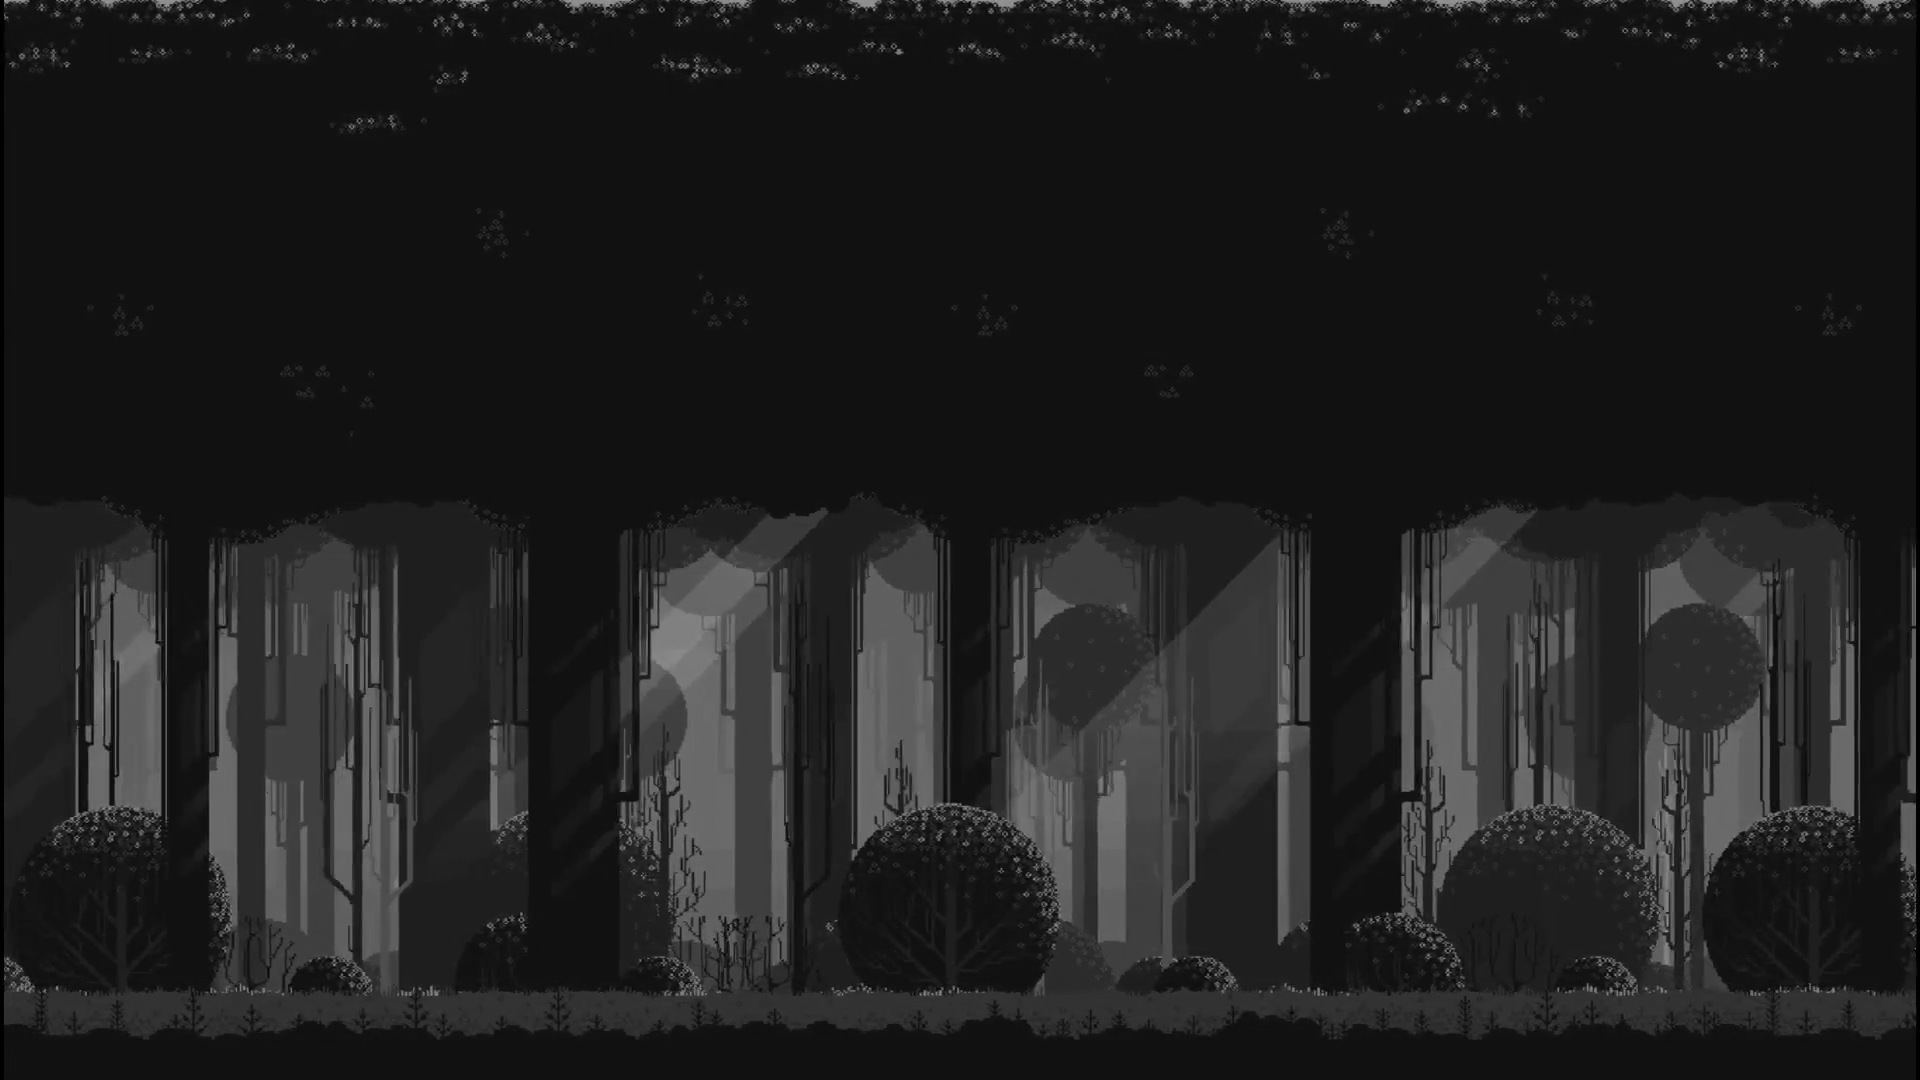
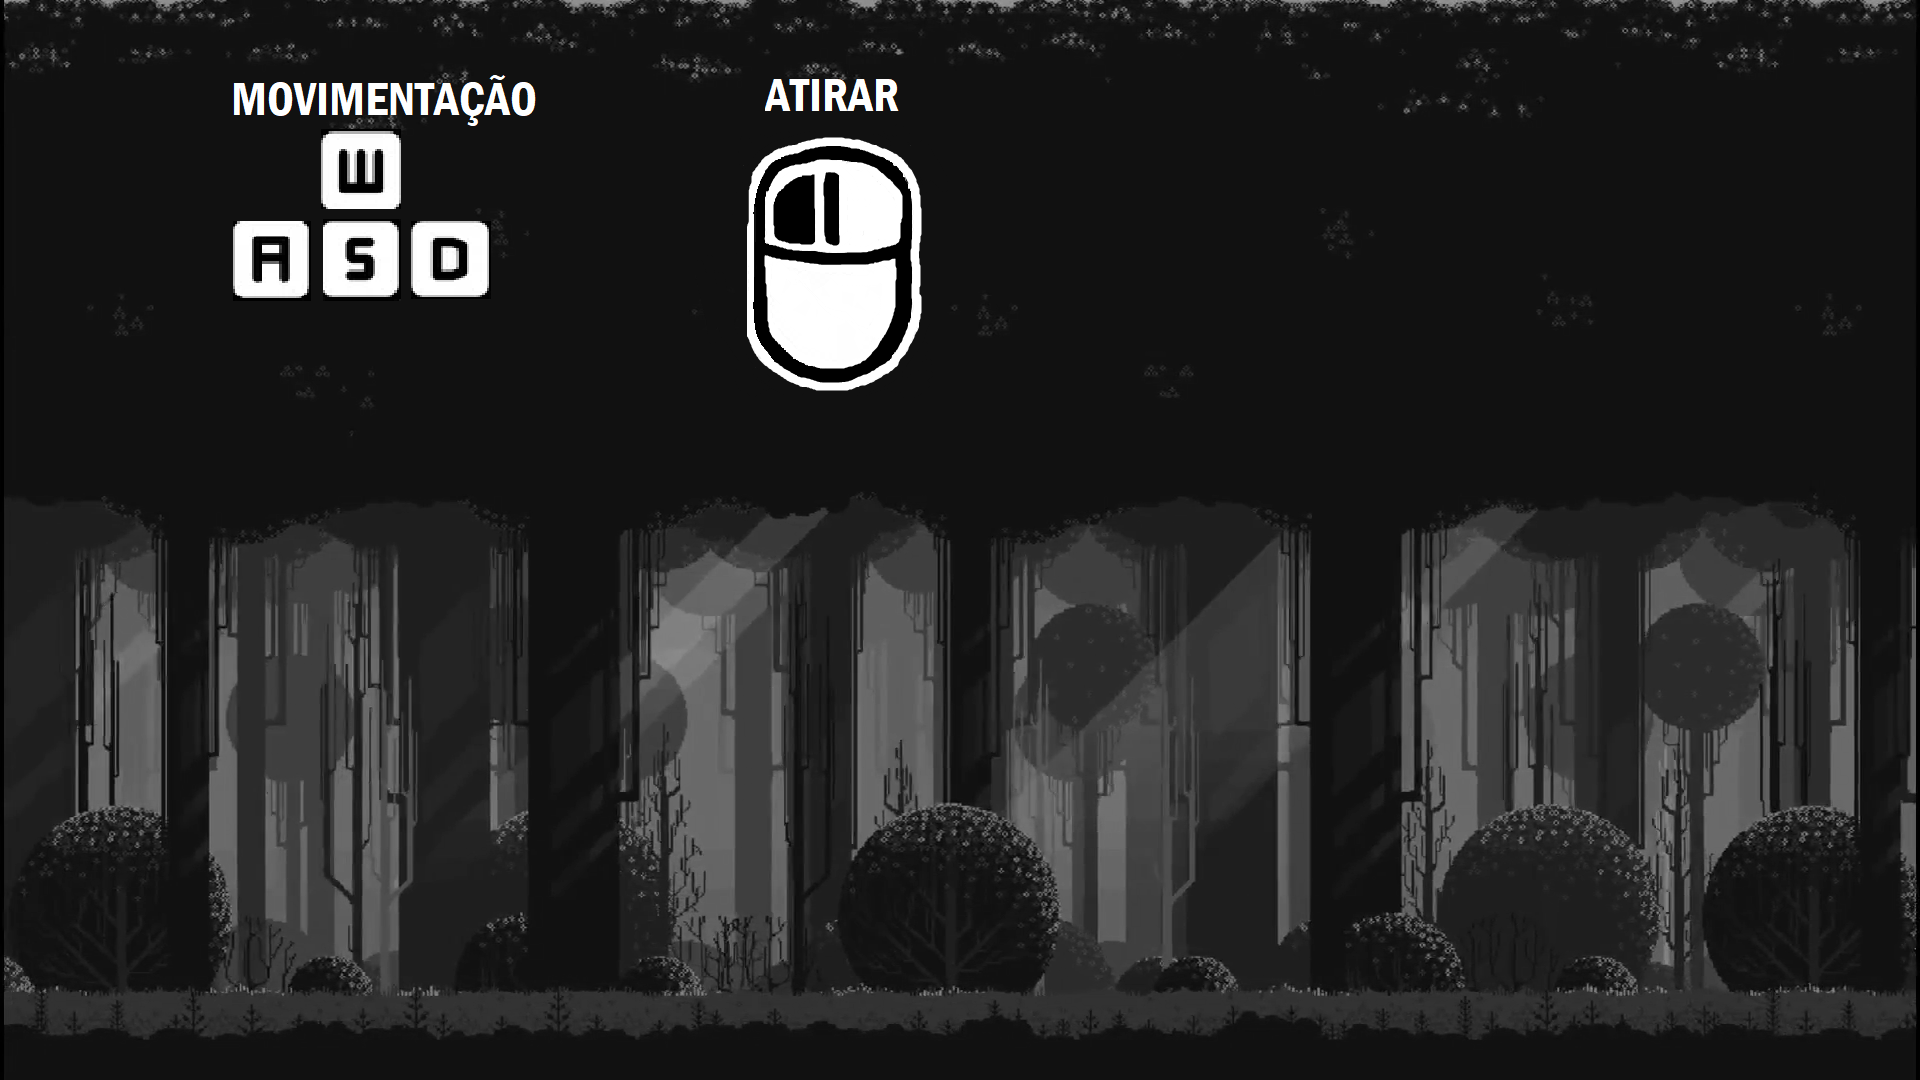
mudando imagem instrução

Changed region(s): [[0.375, 0.0611, 0.5, 0.3667], [0.0938, 0.0611, 0.2812, 0.275]]

diff --git a/assets.py b/assets.py
@@ -63,7 +63,7 @@ def load_assets():
 
     # ---- Plataforma Instrução
     assets[PLATAFORMA_BASE] = pygame.image.load(path.join(PLATAFORMA_DIR, 'plataforma_teste.png')).convert_alpha()
-    assets[PLATAFORMA_BASE] = pygame.transform.scale(assets[PLATAFORMA_BASE], (6*TILE, TILE))
+    assets[PLATAFORMA_BASE] = pygame.transform.scale(assets[PLATAFORMA_BASE], (5*TILE, TILE))
 
     # ---- Tiles
     assets[BASE] = pygame.image.load(path.join(TILES_DIR, 'chao_basico.png')).convert_alpha()

diff --git a/tela_instrucao.py b/tela_instrucao.py
@@ -124,7 +124,7 @@ def tela_instrucao(tela):
                     player.image = assets[JOGADOR_ESQUERDA_IMG]
 
         if player.state == NA_PLATAFORMA:
-            if player.rect.right < plataforma.rect.left or player.rect.left > plataforma.rect.right:
+            if player.rect.right <= plataforma.rect.left or player.rect.left >= plataforma.rect.right:
                 player.state = PULANDO
                 player.speedy += GRAVIDADE
         
